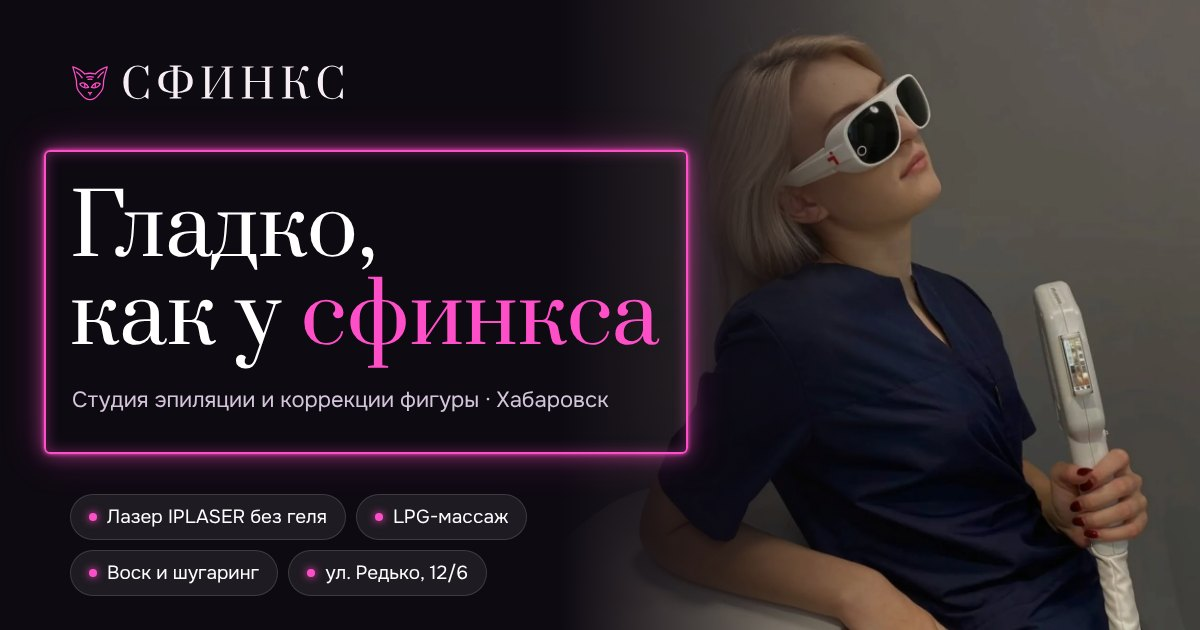
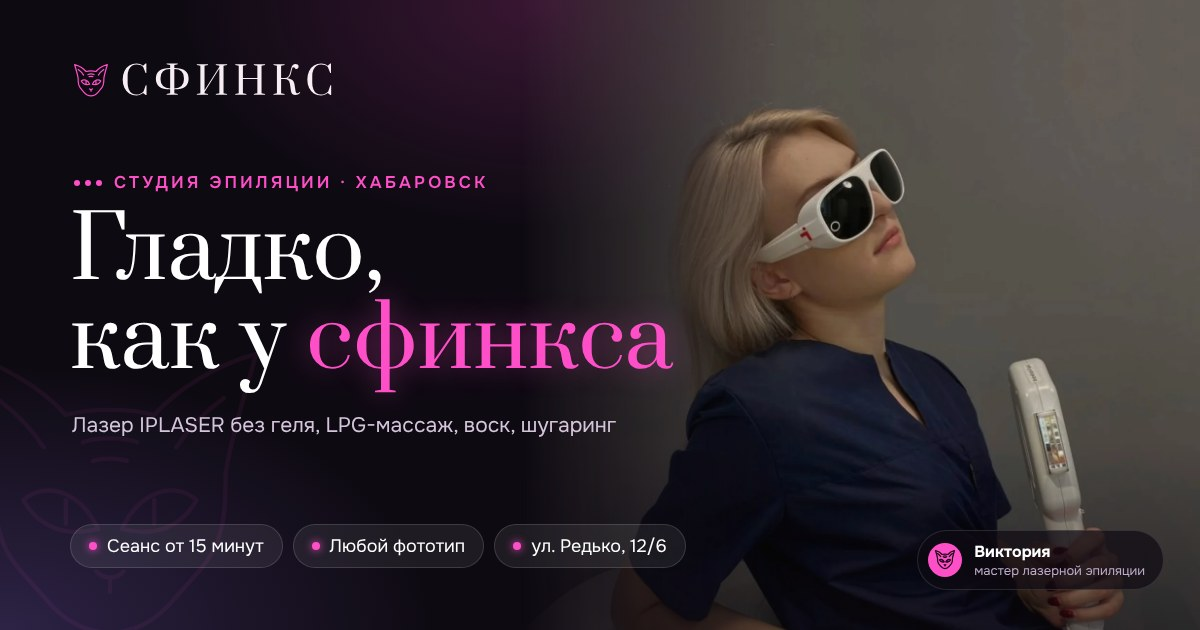
Sphinx: refreshed social preview image
Claude-Session: https://claude.ai/code/session_015USu4HwaNhKR7Lttcm98WS

diff --git a/sphinx/index.html b/sphinx/index.html
@@ -14,12 +14,12 @@
 <meta property="og:title" content="Сфинкс · гладко, как у сфинкса">
 <meta property="og:description" content="Лазерная эпиляция IPLASER без геля, LPG-массаж, воск и шугаринг. Хабаровск, Редько 12/6.">
 <meta property="og:url" content="https://staswebdesign.github.io/sphinx/">
-<meta property="og:image" content="https://staswebdesign.github.io/sphinx/og.jpg?v=1">
+<meta property="og:image" content="https://staswebdesign.github.io/sphinx/og.jpg?v=2">
 <meta property="og:image:width" content="1200">
 <meta property="og:image:height" content="630">
 <meta property="og:image:alt" content="Студия Сфинкс: лазерная эпиляция и LPG-массаж в Хабаровске">
 <meta name="twitter:card" content="summary_large_image">
-<meta name="twitter:image" content="https://staswebdesign.github.io/sphinx/og.jpg?v=1">
+<meta name="twitter:image" content="https://staswebdesign.github.io/sphinx/og.jpg?v=2">
 <link rel="preload" href="fonts/prata.woff2" as="font" type="font/woff2" crossorigin>
 <link rel="preload" href="fonts/onest.woff2" as="font" type="font/woff2" crossorigin>
 <link rel="preload" href="img/hero-viktoria.webp" as="image">
